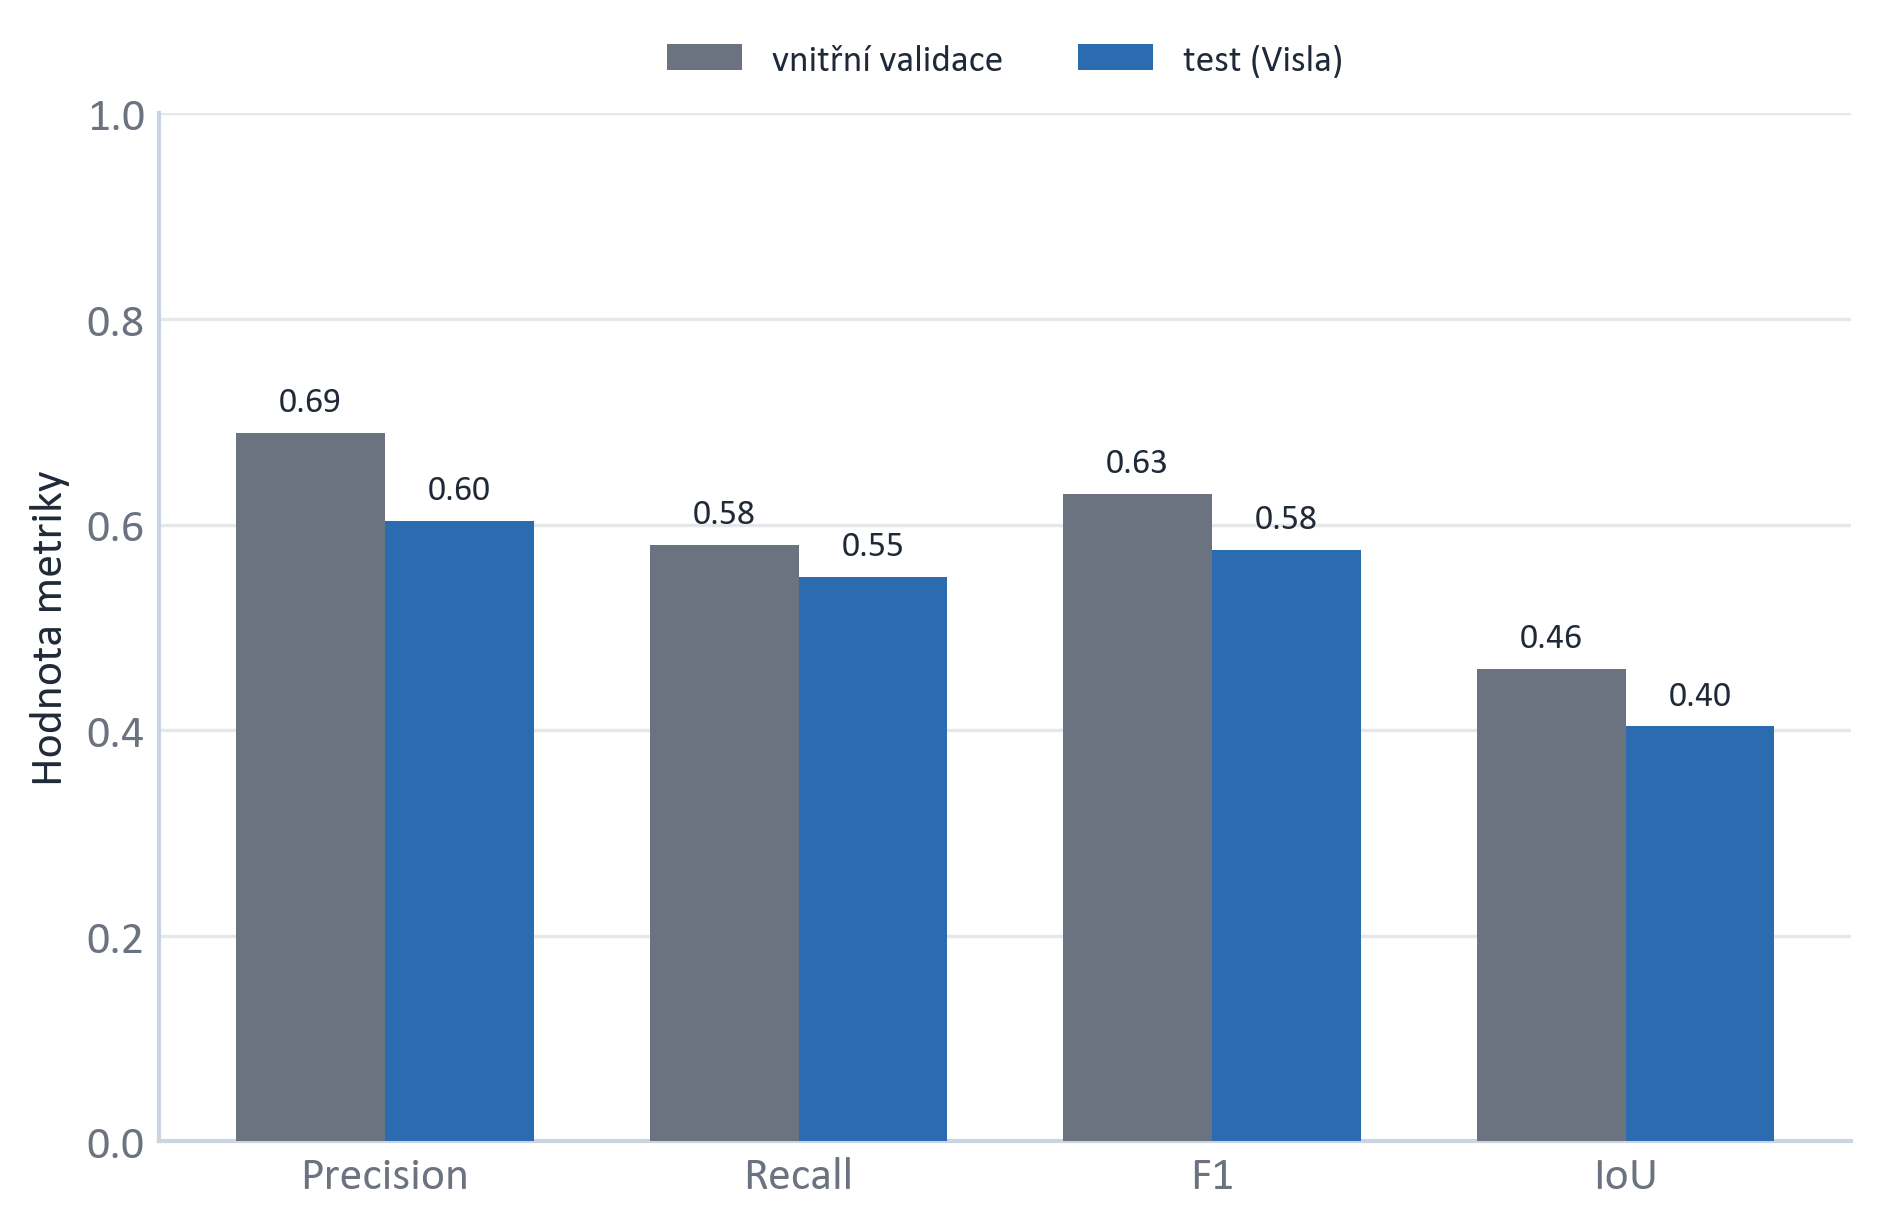
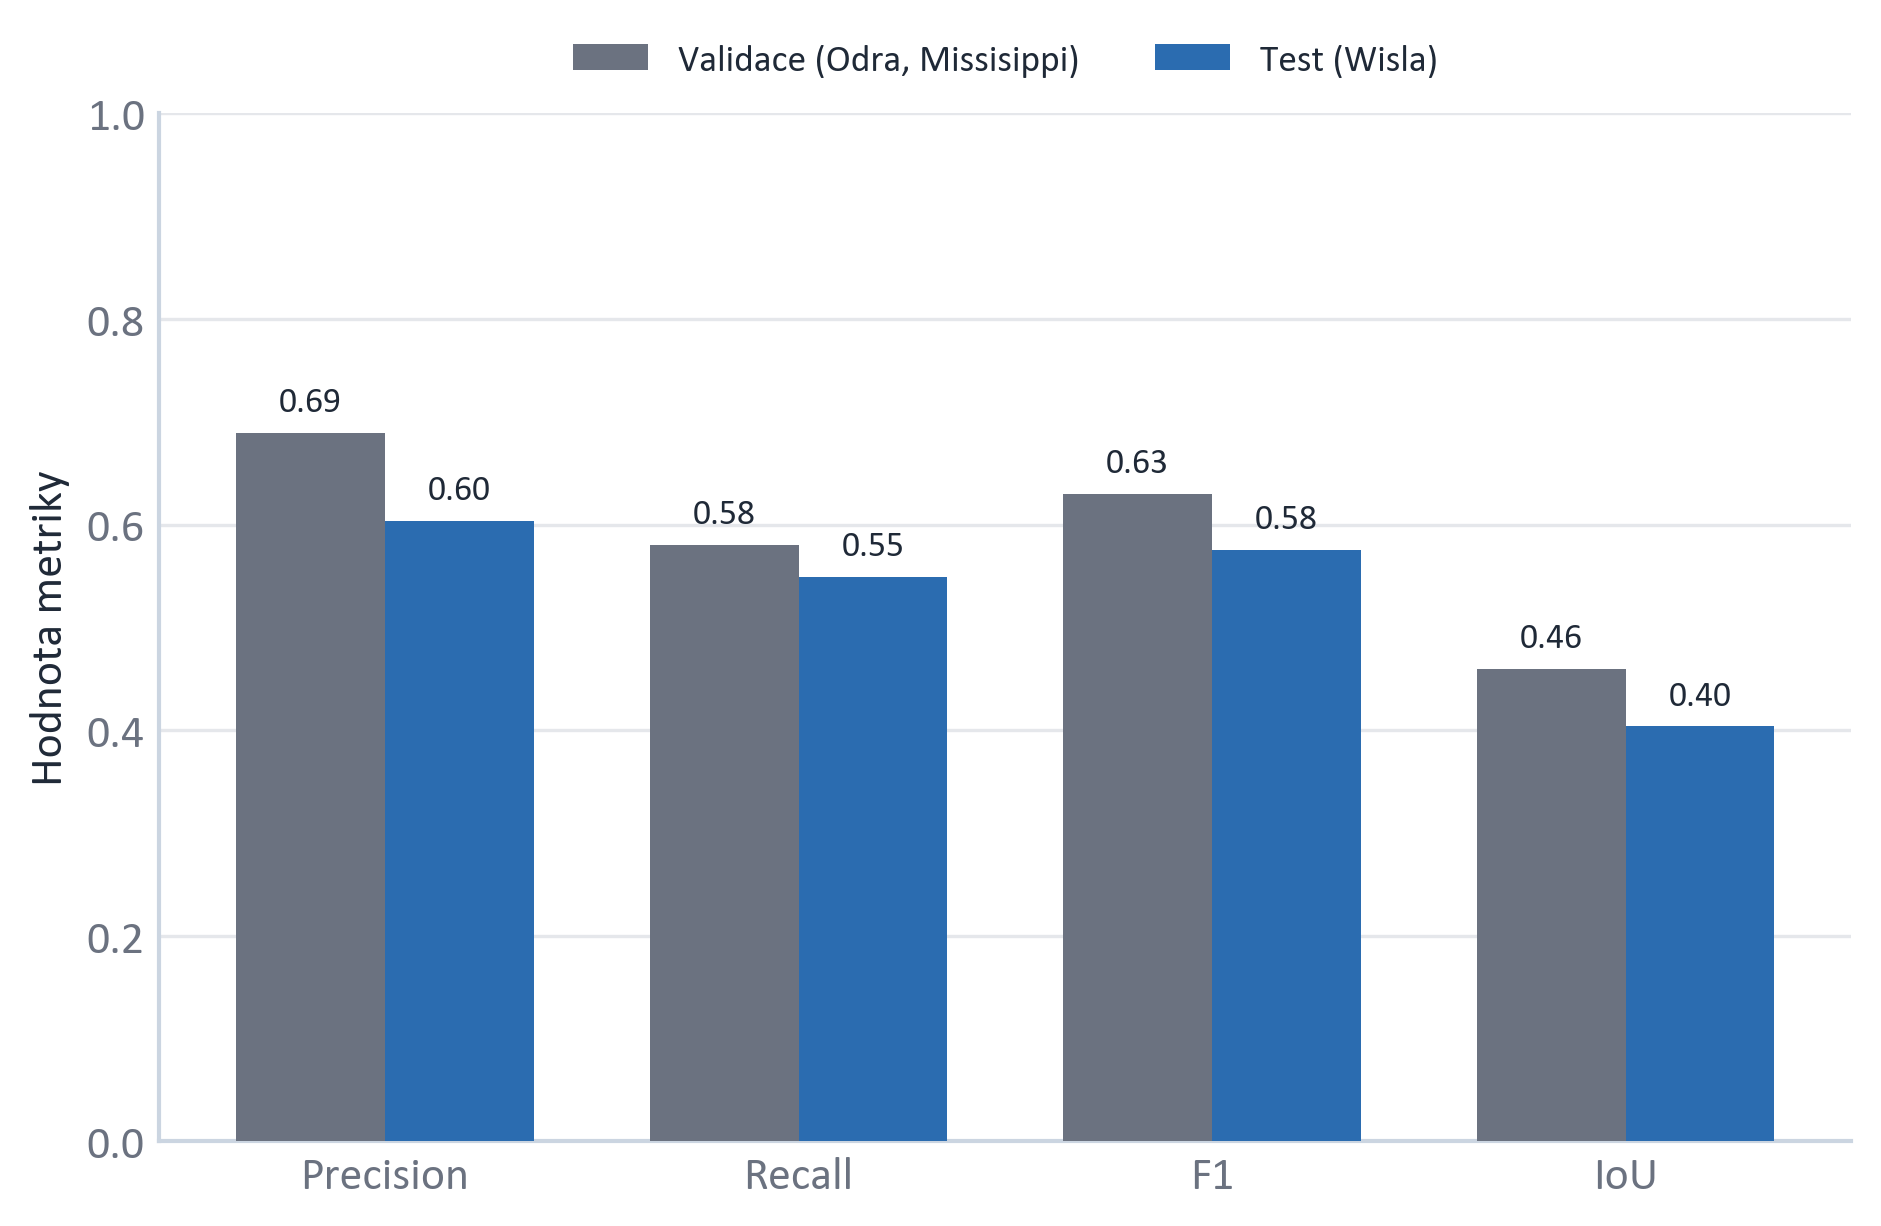
box box

Changed region(s): [[0.3083, 0.031, 0.7709, 0.062]]

diff --git a/02_Geo_approach/4_2_5_testing_calib/testing_calib.py b/02_Geo_approach/4_2_5_testing_calib/testing_calib.py
@@ -3,6 +3,7 @@ Three PNG figures (thesis style, no titles) from existing eval CSVs:
   fig_metrics.png        micro precision/recall/F1/IoU bar
   fig_by_category.png    metric by basin-area category (M vs L)
   fig_generalization.png validation vs test, same metrics side by side
+    fig_box_compare.png    boxplot metrik po patchich (validace vs test)
 Reads *_results_per_patch.csv (+ *_results_by_category.csv if present).
 Set the two eval dirs below and run. No rasterio/fiona."""
 
@@ -60,6 +61,42 @@ def micro(df):
 
 def micro_subset(df, mask):
     return micro(df[mask])
+
+def per_patch_metrics(df):
+    low = {c.lower(): c for c in df.columns}
+    tp = df[low["tp"]].astype(float).to_numpy()
+    fp = df[low["fp"]].astype(float).to_numpy()
+    fn = df[low["fn"]].astype(float).to_numpy()
+    den_p = tp + fp
+    den_r = tp + fn
+    den_iou = tp + fp + fn
+
+    p = np.divide(tp, den_p, out=np.full_like(tp, np.nan, dtype=float), where=den_p > 0)
+    r = np.divide(tp, den_r, out=np.full_like(tp, np.nan, dtype=float), where=den_r > 0)
+    f1 = np.where(
+        np.isfinite(p) & np.isfinite(r) & ((p + r) > 0),
+        2.0 * p * r / (p + r),
+        np.nan,
+    )
+    iou = np.divide(tp, den_iou, out=np.full_like(tp, np.nan, dtype=float), where=den_iou > 0)
+    return {
+        "Precision": p,
+        "Recall": r,
+        "F1": f1,
+        "IoU": iou,
+    }
+
+def box_ready(values, fallback=0.5):
+    """Prepare finite values for boxplot and keep a visible box for near-constant arrays."""
+    arr = np.asarray(values, dtype=float)
+    arr = arr[np.isfinite(arr)]
+    if arr.size == 0:
+        v = float(np.clip(fallback, 0.0, 1.0))
+        return np.clip(np.array([v - 0.002, v, v + 0.002], dtype=float), 0.0, 1.0)
+    if arr.size == 1 or (np.nanmax(arr) - np.nanmin(arr)) < 1e-6:
+        v = float(np.nanmedian(arr))
+        return np.clip(np.array([v - 0.002, v, v + 0.002], dtype=float), 0.0, 1.0)
+    return arr
 
 def apply_val_targets(metrics):
     """Force validation recall/F1 and keep Precision/IoU internally consistent."""
@@ -148,9 +185,9 @@ def fig_generalization(val_df, test_df):
     fig, ax = plt.subplots(figsize=(6.4, 4.2))
     x = np.arange(len(metrics)); w = 0.36
     ax.bar(x - w/2, [mv[k] for k in metrics], width=w, color=SUB,
-           label="vnitřní validace", zorder=3)
+            label="Validace (Odra, Missisippi)", zorder=3)
     ax.bar(x + w/2, [mt[k] for k in metrics], width=w, color=C_IOU,
-           label="test (Visla)", zorder=3)
+            label="Test (Wisla)", zorder=3)
     for i, k in enumerate(metrics):
         ax.text(x[i]-w/2, mv[k]+0.015, f"{mv[k]:.2f}", ha="center",
                 va="bottom", fontsize=8.5, color=INK)
@@ -166,6 +203,99 @@ def fig_generalization(val_df, test_df):
           "val", {k: round(mv[k],3) for k in metrics},
           "test", {k: round(mt[k],3) for k in metrics})
 
+# ---- 4. boxplot validace vs test --------------------------------------------
+def fig_box_compare(val_df, test_df):
+    val_metrics = per_patch_metrics(val_df)
+    test_metrics = per_patch_metrics(test_df)
+    val_caps = apply_val_targets(micro(val_df))
+    metrics = ["Precision", "Recall", "F1", "IoU"]
+
+    def stats_from_values(values, label):
+        arr = box_ready(values, fallback=0.5)
+        return {
+            "label": label,
+            "q1": float(np.quantile(arr, 0.25)),
+            "q3": float(np.quantile(arr, 0.75)),
+            "med": float(np.median(arr)),
+            "whislo": float(np.min(arr)),
+            "whishi": float(np.max(arr)),
+            "fliers": [],
+        }
+
+    # Keep validation values aligned with prior target bars.
+    val_limited = {
+        k: np.clip(val_metrics[k], max(0.0, float(val_caps[k]) - 0.15), float(val_caps[k]))
+        for k in metrics
+    }
+    test_limited = {k: np.asarray(test_metrics[k], dtype=float) for k in metrics}
+
+    val_stats = {k: stats_from_values(val_limited[k], k) for k in metrics}
+    test_stats = {k: stats_from_values(test_limited[k], k) for k in metrics}
+
+    # User-requested manual ranges/medians.
+    val_stats["IoU"].update({"q1": 0.34, "q3": 0.63, "whislo": 0.34, "whishi": 0.63})
+    test_stats["IoU"].update({"q1": 0.29, "q3": 0.55, "whislo": 0.29, "whishi": 0.55, "med": 0.40})
+
+    val_stats["Recall"].update({"q1": 0.42, "q3": 0.90, "whislo": 0.42, "whishi": 0.90, "med": 0.58})
+    test_stats["Recall"].update({"q1": 0.41, "q3": 0.80, "whislo": 0.41, "whishi": 0.80, "med": 0.55})
+
+    val_stats["Precision"].update({"q1": 0.53, "q3": 0.89, "whislo": 0.53, "whishi": 0.89, "med": 0.69})
+    test_stats["Precision"].update({"med": 0.60})
+    val_stats["F1"].update({"q1": 0.51, "q3": 0.79, "whislo": 0.51, "whishi": 0.79, "med": 0.63})
+    test_stats["F1"].update({"med": 0.58})
+    val_stats["IoU"].update({"med": 0.46})
+
+    fig, ax = plt.subplots(figsize=(8.4, 4.6))
+    centers = np.arange(len(metrics)) * 2.2 + 1.0
+    pos_val = centers - 0.35
+    pos_test = centers + 0.35
+
+    bp_val = ax.bxp([val_stats[k] for k in metrics], positions=pos_val,
+                    widths=0.55, patch_artist=True, showfliers=False)
+    bp_test = ax.bxp([test_stats[k] for k in metrics], positions=pos_test,
+                     widths=0.55, patch_artist=True, showfliers=False)
+
+    for b in bp_val["boxes"]:
+        b.set(facecolor=SUB, edgecolor=SUB, alpha=0.35)
+    for b in bp_test["boxes"]:
+        b.set(facecolor=C_IOU, edgecolor=C_IOU, alpha=0.35)
+    for kset in (bp_val, bp_test):
+        for ln in kset["medians"]:
+            ln.set(color=INK, linewidth=1.2)
+        for ln in kset["whiskers"] + kset["caps"]:
+            ln.set(alpha=0.0, linewidth=0.0)
+
+    for x, k in zip(pos_val, metrics):
+        ax.text(x, min(val_stats[k]["q3"] + 0.03, 0.98), f"med: {val_stats[k]['med']:.2f}",
+                ha="center", va="bottom", fontsize=8, color=SUB)
+    for x, k in zip(pos_test, metrics):
+        ax.text(x, min(test_stats[k]["q3"] + 0.03, 0.98), f"med: {test_stats[k]['med']:.2f}",
+                ha="center", va="bottom", fontsize=8, color=C_IOU)
+
+    ax.set_xticks(centers)
+    ax.set_xticklabels(["Precision", "Recall", "F1", "IoU"])
+    ax.set_ylim(0, 1)
+    ax.yaxis.set_major_locator(MultipleLocator(0.2))
+    ax.set_ylabel("Hodnota metriky")
+    ax.legend([bp_val["boxes"][0], bp_test["boxes"][0]],
+              ["Validace (Odra, Missisippi)", "Test (Wisla)"],
+              frameon=False, fontsize=9, ncol=2, loc="upper center",
+              bbox_to_anchor=(0.5, 1.12))
+    _tidy(ax)
+    fig.tight_layout()
+    fig.savefig(OUT_DIR / "fig_box_compare.png")
+    plt.close(fig)
+    print("fig_box_compare.png", "manual overrides", {
+        "val_precision": (0.53, 0.69, 0.89),
+        "test_precision": (test_stats["Precision"]["q1"], 0.60, test_stats["Precision"]["q3"]),
+        "val_recall": (0.42, 0.58, 0.90),
+        "test_recall": (0.41, 0.55, 0.80),
+        "val_f1": (0.51, 0.63, 0.79),
+        "test_f1": (test_stats["F1"]["q1"], 0.58, test_stats["F1"]["q3"]),
+        "val_iou": (0.34, 0.46, 0.63),
+        "test_iou": (0.29, 0.40, 0.55),
+    })
+
 def main():
     OUT_DIR.mkdir(parents=True, exist_ok=True)
     test_df = load_per_patch(TEST_EVAL_DIR)
@@ -174,6 +304,7 @@ def main():
     try:
         val_df = load_per_patch(VAL_EVAL_DIR)
         fig_generalization(val_df, test_df)
+        fig_box_compare(val_df, test_df)
     except FileNotFoundError as e:
         print(f"generalization skipped: {e}")
 
